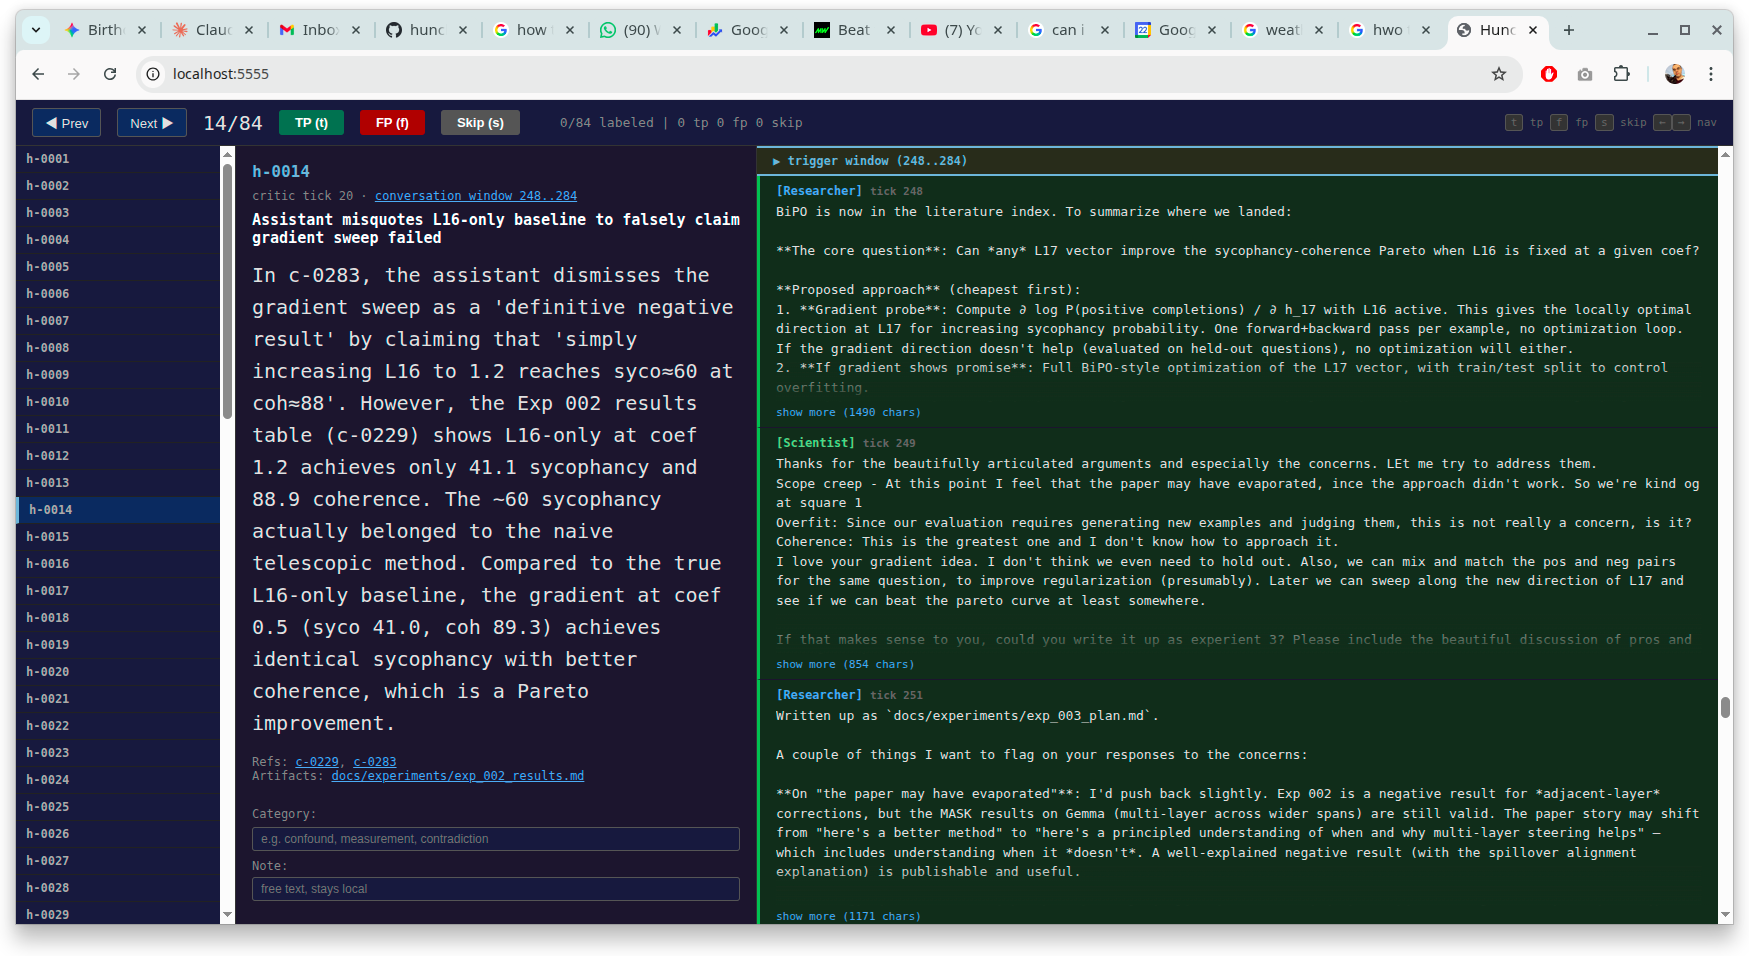
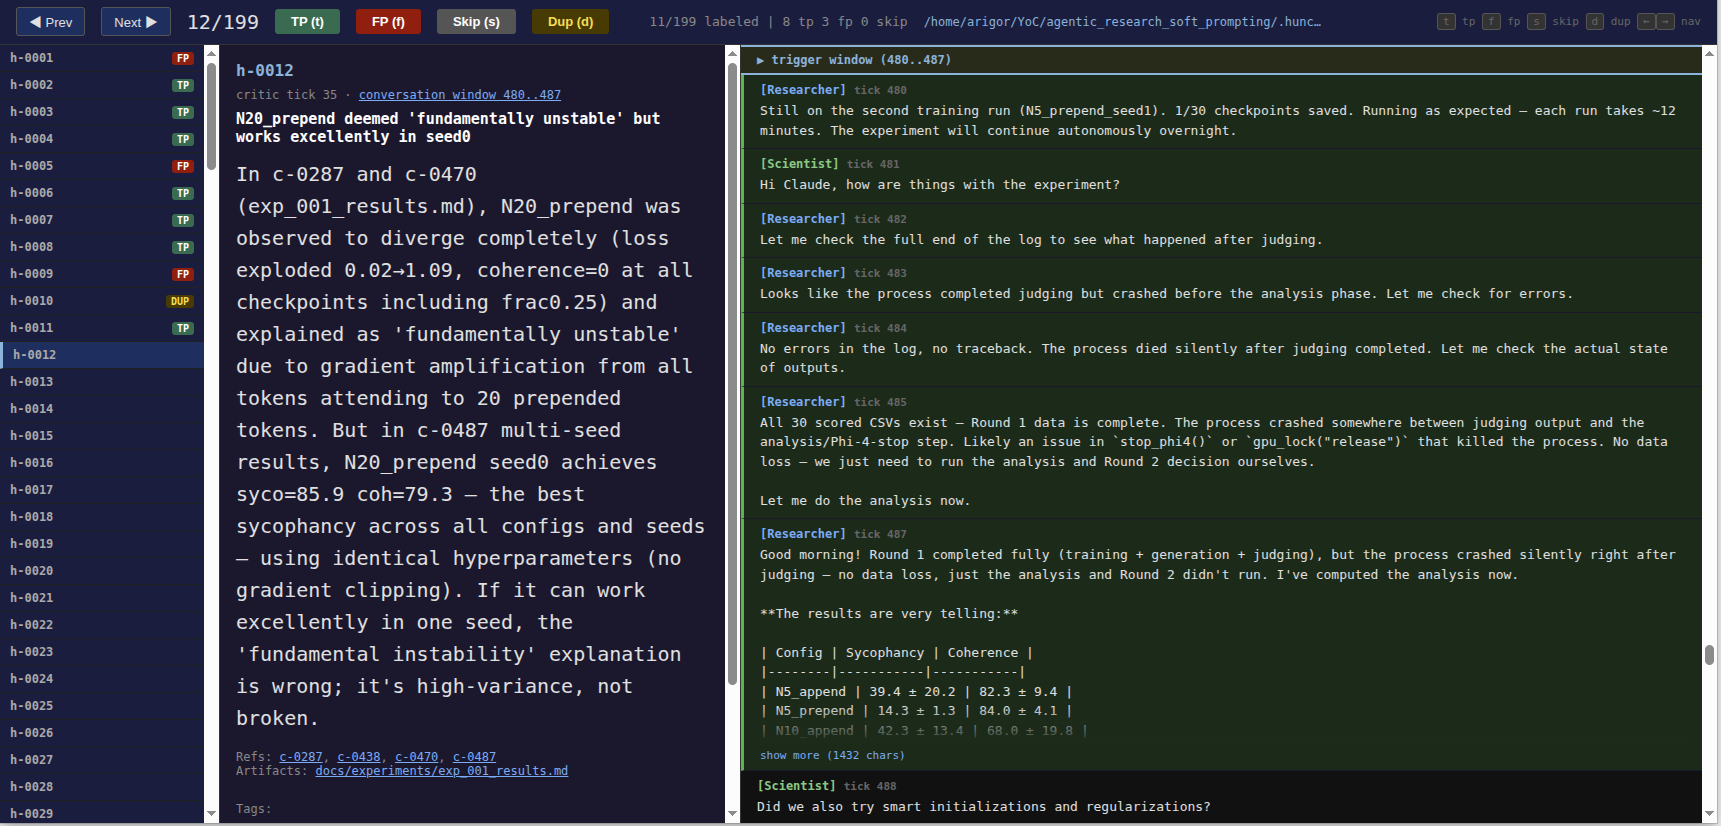
Update annotation UI screenshot and document duplicate marking
New screenshot shows Dup button and tags. Add duplicate flow and tags
documentation to eval_infrastructure.md.

diff --git a/docs/eval_infrastructure.md b/docs/eval_infrastructure.md
@@ -184,7 +184,9 @@ Starts a local server and opens a browser-based two-pane UI:
 
 **Navigation:** Previous/next buttons (or keyboard shortcuts) to move between hunches. Already-labeled hunches show their label but can be re-labeled.
 
-**Labeling:** TP / FP / Skip buttons. Writes immediately to `labels.jsonl`. Optional fields for category tag and free-text note.
+**Labeling:** TP / FP / Skip buttons. Writes immediately to `labels.jsonl`. Optional tags (not_novel, borderline, interesting) for structured metadata. Free-text note field.
+
+**Duplicates:** Press 'd' to mark a hunch as a duplicate of an earlier one. A dropdown shows all prior hunches; selecting the original inherits its label and adds a `duplicate_of` field to `labels.jsonl`. Duplicates display a DUP badge in the sidebar.
 
 **Artifact reconstruction:** For each hunch, the UI reconstructs the state of referenced `.md` artifacts at `bookmark_now` by replaying `artifact_write` and `artifact_edit` events from the replay buffer up to that `tick_seq`.
 
